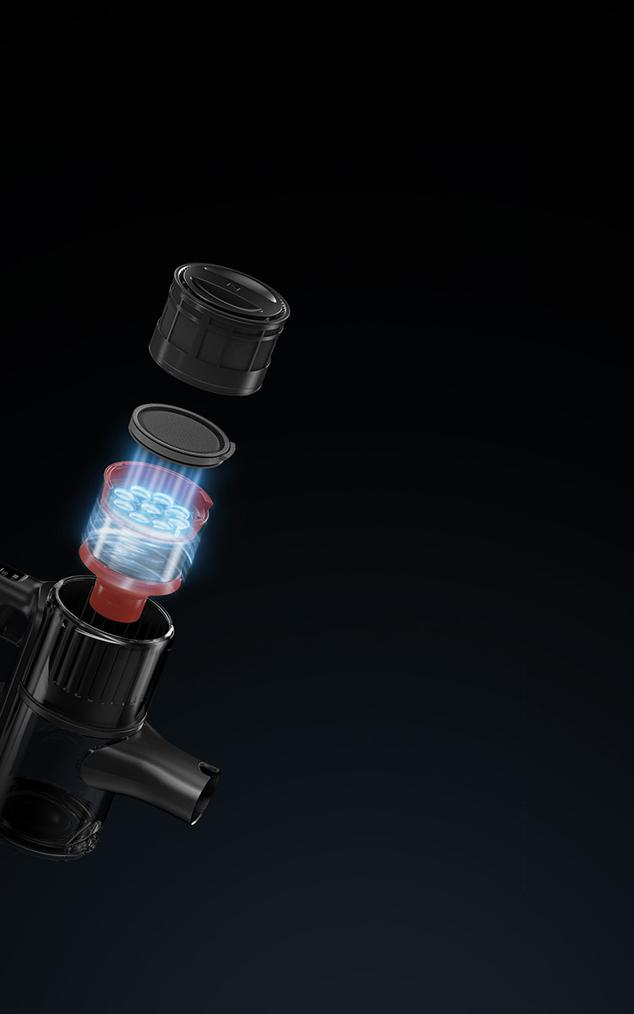
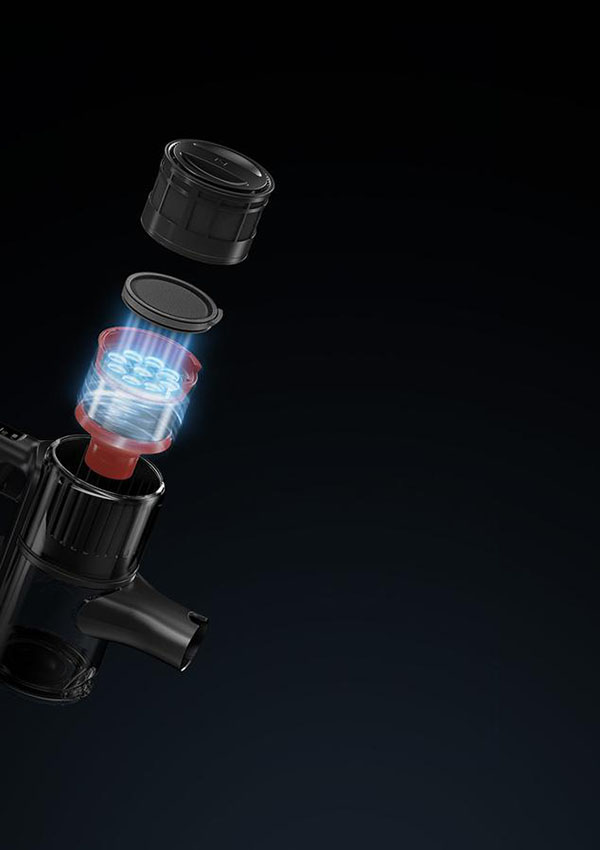
Develop section 6 - filters

Changed region(s): [[0.0, 0.1529, 0.45, 0.8565]]

diff --git a/scss/partials/H6-layouts/_H6-06-filters.scss b/scss/partials/H6-layouts/_H6-06-filters.scss
@@ -2,6 +2,10 @@
   position: relative;
   background-image: linear-gradient(to bottom, black, #10141D);
 
+  @media only screen and (max-width: 600px) {
+    height: auto;
+  }
+
   &__text {
     position: absolute;
     top: 0;
@@ -11,6 +15,12 @@
     text-align: center;
     color: var(--color-txt-white);
     z-index: 2;
+
+    @media only screen and (max-width: 600px) {
+      position: static;
+      padding: 2.4rem;
+      background-color: var(--color-black);
+    }
 
     & h3 {
       @include H6-h3;
@@ -47,7 +57,23 @@
     }
 
     @media only screen and (max-width: 600px) {
+      top: 55vw;
+      left: 60%;
+    }
+
+    @media only screen and (max-width: 500px) {
+      top: 55vw;
       left: 55%;
+    }
+
+    @media only screen and (max-width: 422px) {
+      top: 70vw;
+      left: 48vw;
+    }
+
+    @media only screen and (max-width: 360px) {
+      top: 76vw;
+      left: 43vw;
     }
     
     &__indicator {
@@ -55,6 +81,10 @@
       color: var(--color-txt-white);
       z-index: 2;
       position: relative;
+
+      @media only screen and (max-width: 600px) {
+        height: unset;
+      }
 
       &::before {
         display: block;
@@ -69,14 +99,11 @@
           top: 37%;
         }
 
-        @media only screen and (max-width: 800px) {
+        @media only screen and (max-width: 600px) {
+          top: 30%;
           display: none;
         }
 
-        @media only screen and (max-width: 600px) {
-          display: block;
-          top: 30%;
-        }
       }
 
       &--1 {
@@ -98,11 +125,19 @@
             --size: 5rem;
             left: calc(var(--size)*-1);
           }
+
+          @media only screen and (max-width: 422px) {
+            --size: 3rem;
+          }
         }
       }
 
       &--2 {
         margin-bottom: 9rem;
+
+        @media only screen and (max-width: 600px) {
+          margin-bottom: 14vw;
+        }
 
         &::before {
           --size: 19rem;
@@ -121,11 +156,19 @@
             --size: 7rem;
             left: calc(var(--size)*-1);
           }
+
+          @media only screen and (max-width: 422px) {
+            --size: 4rem;
+          }
         }
       }
 
       &--3 {
         margin-bottom: 6rem;
+
+        @media only screen and (max-width: 600px) {
+          margin-bottom: 10vw;
+        }
 
         &::before {
           --size: 16rem;
@@ -144,11 +187,19 @@
             --size: 5rem;
             left: calc(var(--size)*-1);
           }
+
+          @media only screen and (max-width: 422px) {
+            --size: 3rem;
+          }
         }
       }
 
       &--4 {
         margin-bottom: 4rem;
+
+        @media only screen and (max-width: 600px) {
+          margin-bottom: 6vw;
+        }
 
         &::before {
           --size: 13rem;
@@ -167,11 +218,19 @@
             --size: 3rem;
             left: calc(var(--size)*-1);
           }
+
+          @media only screen and (max-width: 422px) {
+            --size: 1.5rem;
+          }
         }
       }
 
       &--5 {
         margin-bottom: 5rem;
+
+        @media only screen and (max-width: 600px) {
+          margin-bottom: 3vw;
+        }
 
         &::before {
           --size: 10rem;
@@ -183,8 +242,16 @@
           }
 
           @media only screen and (max-width: $bp-medium) {
-            --size: 1rem;
+            --size: 2rem;
+            width: var(--size);
+          }
+
+          @media only screen and (max-width: 800px) {
             left: calc(var(--size)*-1);
+          }
+
+          @media only screen and (max-width: 422px) {
+            --size: 1rem;
           }
         }
       }
@@ -192,14 +259,35 @@
       &__btn {
         display: flex;
 
+        /* IF WANTED DIFFERENT DESIGN
+        @media only screen and (max-width: 600px) {
+          border: 1px solid var(--color-txt-white);
+          border-radius: 20px;
+
+          &:hover,
+          &:focus {
+            border: none;
+            padding-bottom: .5rem;
+          }
+        }
+        */
+        /*
         &:hover > &__digit {
           background-color: var(--color-reddish);
           border-color: var(--color-reddish);
+        */
+          /* IF WANTED DIFFERENT DESIGN
+          @media only screen and (max-width: 600px) {
+            display: none;
+          }
         }
-
+        */
+        /*
         &:hover > &__text p {
           display: inline;
         }
+        */
+      
 
         &__digit {
           display: flex;
@@ -214,16 +302,23 @@
           border-radius: 50%;
 
           @media only screen and (max-width: $bp-medium) {
-            width: 3.5rem;
-            height: 3.5rem;
+            width: 3.6rem;
+            height: 3.6rem;
             font-size: 2rem;
           }
 
           @media only screen and (max-width: 600px) {
-            width: 3rem;
-            height: 3rem;
+            width: 2.8rem;
+            height: 2.8rem;
             font-size: 1.4rem;
             margin-right: 1rem;
+          }
+
+          @media only screen and (max-width: 400px) {
+            width: 2.8rem;
+            height: 2.8rem;
+            font-size: 1.4rem;
+            margin-right: .8rem;
           }
         }
 
@@ -237,7 +332,7 @@
           }
 
           @media only screen and (max-width: 600px) {
-            width: 16rem;   
+            width: 13rem;
           }
 
           & h6 {
@@ -249,7 +344,7 @@
             }
 
             @media only screen and (max-width: 600px) {
-              font-size: 1.4rem;
+              font-size: 1.2rem;
               line-height: 3rem;
             }
           }
@@ -278,7 +373,8 @@
     }
 
     @media only screen and (max-width: 600px) {
-   
+      height: auto;
+      overflow: visible;
     }
 
     &__machine {
@@ -308,7 +404,8 @@
         }
 
         @media only screen and (max-width: 600px) {
-          
+          width: 100%;
+          height: auto;     
         }
       }
 
@@ -325,4 +422,13 @@
 
 .opacity1 {
   opacity: 1;
+}
+
+.hoveredDigit {
+  background-color: var(--color-reddish);
+  border-color: var(--color-reddish);
+}
+
+.displayInline {
+  display: inline !important;
 }

diff --git a/js/script.js b/js/script.js
@@ -3,7 +3,7 @@ const animatedValueElement2 = document.querySelector("#countUpValue--2");
 
 const redDots = document.querySelectorAll('.red-dot__circle');
 
-const filtersButtons = document.querySelectorAll('.h6__06-filters__indicators__indicator__btn');
+let filtersButtons = document.querySelectorAll('.h6__06-filters__indicators__indicator__btn');
 let filterImages = document.querySelectorAll('.h6__06-filters__images__machine');
 
 
@@ -63,13 +63,24 @@ redDots.forEach(el => el.addEventListener('click', function() {
 filterImages = Array.from(filterImages);
 filterImages.shift();
 filterImages.reverse();
+filtersButtons = Array.from(filtersButtons);
+
+
 
 for (let i=0; i<filtersButtons.length; i++) {
-  filtersButtons[i].addEventListener('mouseover', function() {
-    filterImages[i].classList.add('opacity1');
-  })
-  filtersButtons[i].addEventListener('mouseout', function() {
-    filterImages[i].classList.remove('opacity1');
+  filtersButtons[i].addEventListener('click', function() { 
+    const index = filtersButtons.indexOf(filtersButtons[i]);
+    const cloneFiltersButtons = filtersButtons.slice();
+    cloneFiltersButtons.splice(index, 1);
+    const cloneFilterImages = filterImages.slice();
+    cloneFilterImages.splice(index, 1);
+
+    cloneFiltersButtons.forEach(el => el.firstElementChild.classList.remove('hoveredDigit'));
+    cloneFiltersButtons.forEach(el => el.lastElementChild.lastElementChild.classList.remove('displayInline'));
+    cloneFilterImages.forEach(el => el.classList.remove('opacity1'));
+    filtersButtons[i].firstElementChild.classList.toggle('hoveredDigit');
+    filtersButtons[i].lastElementChild.lastElementChild.classList.toggle('displayInline');
+    filterImages[i].classList.toggle('opacity1');
   })
 }
 /** END OF: Hover on button to change appropriate picture opacity **/

diff --git a/index.html b/index.html
@@ -17,6 +17,7 @@
 
 <body>
   <main>
+<!-- 01 Banner -->
     <section class="h6__01-banner">
       <div class="h6__01-banner__image">
         <picture>
@@ -31,11 +32,13 @@
         <p>Longer Cleaning</p>
       </div>
     </section>
+<!-- 02 Video -->
     <section class="h6__02-video">
       <video class="h6__02-video__content" autoplay muted loop playsinline> 
         <source src="video//Roborock_H6_720p.mp4" type="video/mp4">
       </video>
     </section>
+<!-- 03 Features -->
     <section class="h6__03-features">
       <div class="h6__03-features__text">
         <div class="h6__03-features__text__features">
@@ -74,6 +77,7 @@
         </picture>
       </div>
     </section>
+<!-- 04 Battery -->
     <section class="h6__04-battery">
       <div class="h6__04-battery__description">
         <div class="h6__04-battery__text">
@@ -99,6 +103,7 @@
         </div>
       </div>
     </section>
+<!-- 05 House -->
     <section class="h6__05-house">
       <div class="h6__05-house__text">
         <h3>Lightweight and Maneuverable</h3>
@@ -120,6 +125,7 @@
         </div>
       </div>
     </section>
+<!-- 06 Filters -->
     <section class="h6__06-filters">
       <div class="h6__06-filters__text">
         <h3>Eliminate Pollutants and Allergens</h3>
